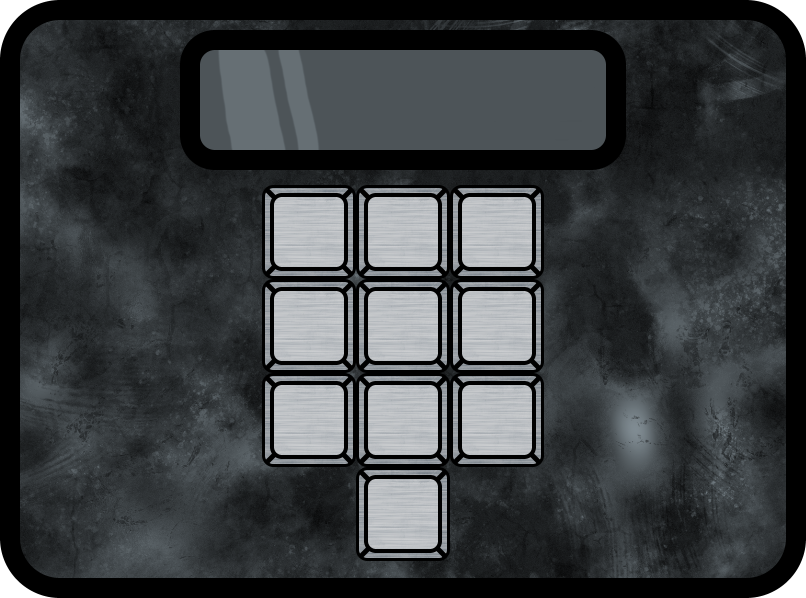
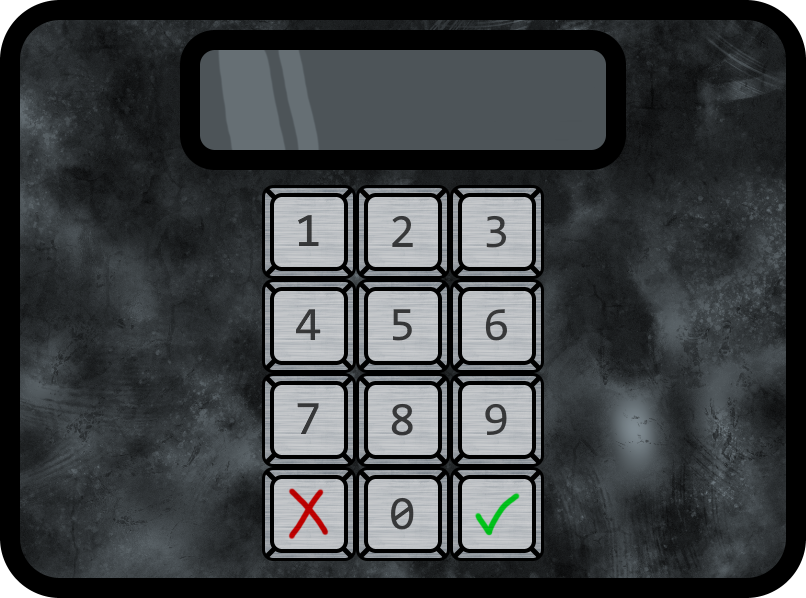
Keypad Input
Keypad input is now functional

diff --git a/core/src/marlin/auber/controllers/AuberKeyboardController.java b/core/src/marlin/auber/controllers/AuberKeyboardController.java
@@ -185,6 +185,23 @@ public class AuberKeyboardController implements Controller, GuiRenderer {
             this.isKeypadGuiOpen = false;
         }
         // KEYPAD UI END
+        // KEYPAD INPUT START
+        for (Vector2 button : auber.world.map.buttons) {
+            if(keypadCheckInput(auber.world.map.keypadTexture, 0.9f, button)){
+                int index = auber.world.map.buttons.indexOf(button);
+                if(index <= 8){
+                    Gdx.app.log("input kp", Integer.toString(index + 1));
+                }
+                else if (index == 9){
+                    Gdx.app.log("input kp", "clear");
+                }
+                else if (index == 10){
+                    Gdx.app.log("input kp", "0");
+                }
+                else {Gdx.app.log("input kp", "check");}
+            }
+        }
+        // KEYPAD INPUT END
     }
 
     private boolean isAtPad() {
@@ -244,11 +261,53 @@ public class AuberKeyboardController implements Controller, GuiRenderer {
         }
     }
 
+    private boolean keypadCheckInput(Texture keypad, float cover, Vector2 button){
+        /*
+        keypad: texture of keypad (not drawn on screen)
+        cover: amount of screen covered by keypad
+        button: screen position of button from top left
+        index: what index the button is
+         */
+        float keypadAR = keypad.getWidth() / keypad.getHeight();
+        float currentAR = (Gdx.graphics.getWidth() * 1f)/(Gdx.graphics.getHeight() * 1f);
+        float defaultAR = 16f/9f;
+
+        float drawKPWidth;
+        float drawKPHeight;
+
+        Vector2 drawMapTL;
+        Vector2 drawPosition;
+
+        float ssMouseX = Gdx.input.getX();
+        float ssMouseY = Gdx.input.getY();
+        float gsMouseY = Gdx.graphics.getHeight() - ssMouseY;
+
+        if (currentAR > keypadAR) {
+            // Height of map is cover (90%) of screen height
+            drawKPHeight = 720f * cover;
+            drawKPWidth = (drawKPHeight/(currentAR/defaultAR)) * keypadAR;
+            drawMapTL = new Vector2((1280f / 2f) - (0.5f * drawKPWidth), 720f - (720f * ((1f - cover)/2f)));
+        }
+        else{
+            drawKPWidth = 1280f * cover;
+            drawKPHeight = (drawKPWidth*(currentAR/defaultAR)) / keypadAR;
+            drawMapTL = new Vector2(1280f * ((1f - cover)/2f), (720f / 2f) + (0.5f * drawKPHeight));
+        }
+        drawPosition = new Vector2(drawMapTL.x + (drawKPWidth * (button.x/keypad.getWidth())), drawMapTL.y - (drawKPHeight * (button.y/keypad.getHeight())));
+        if (Vector2.dst2(drawPosition.x, drawPosition.y, ssMouseX * (1280f/Gdx.graphics.getWidth()), gsMouseY * (720f/Gdx.graphics.getHeight())) < Math.pow(40, 2)) {
+            if (Gdx.input.isButtonJustPressed(Input.Buttons.LEFT)) {
+                //Gdx.app.log("button input", Integer.toString(index + 1));
+                return true;
+            }
+        }
+        return false;
+    }
+
     private void drawPad(Texture pad, Texture map, Texture highlight, float cover, Vector2 offset, SpriteBatch batch) {
         /* pad: pad texture to be drawn on screen
         map: texture of the map (not drawn on screen)
         highlight: highlight pad texture to be drawn
-        cover: amount of screen to be covered by map
+        cover: amount of screen covered by map
         offset: the offset of the texture from the top left of the map (screen space)
         batch: SpriteBatch renderer*/
         float mapAspectRatio = (map.getWidth() * 1f)/(map.getHeight() * 1f); // texture width / texture height

diff --git a/core/src/marlin/auber/models/Map.java b/core/src/marlin/auber/models/Map.java
@@ -29,6 +29,11 @@ public class Map implements Json.Serializable, DebugRenderer {
     public Vector2 auberSpawn;
     public Vector2 healPoint;
 
+    // KEYPAD VARIABLES
+    public List<Vector2> buttons = new ArrayList<>();
+    public Vector2 drawText;
+    public Vector2 drawHint;
+
     public List<Vector2> keypads = new ArrayList<>();
     public List<Vector2> teleportPads = new ArrayList<>();
     public static final float TELEPORT_PAD_USE_RANGE = 2f;
@@ -316,6 +321,19 @@ public class Map implements Json.Serializable, DebugRenderer {
                     )
             );
         }
+
+        // KEYPAD INFO START
+        JsonValue buttons_Json = val.get("buttonPositions");
+        for (JsonValue child = buttons_Json.child; child != null; child = child.next) {
+            float[] pos = child.asFloatArray();
+            this.buttons.add(
+                    new Vector2(pos[0], pos[1])
+            );
+        }
+        JsonValue drawTxt = val.get("inputDraw");
+        drawText = new Vector2(drawTxt.getFloat(0), drawTxt.getFloat(1));
+        // KEYPAD INFO END
+
     }
 
     @Override
